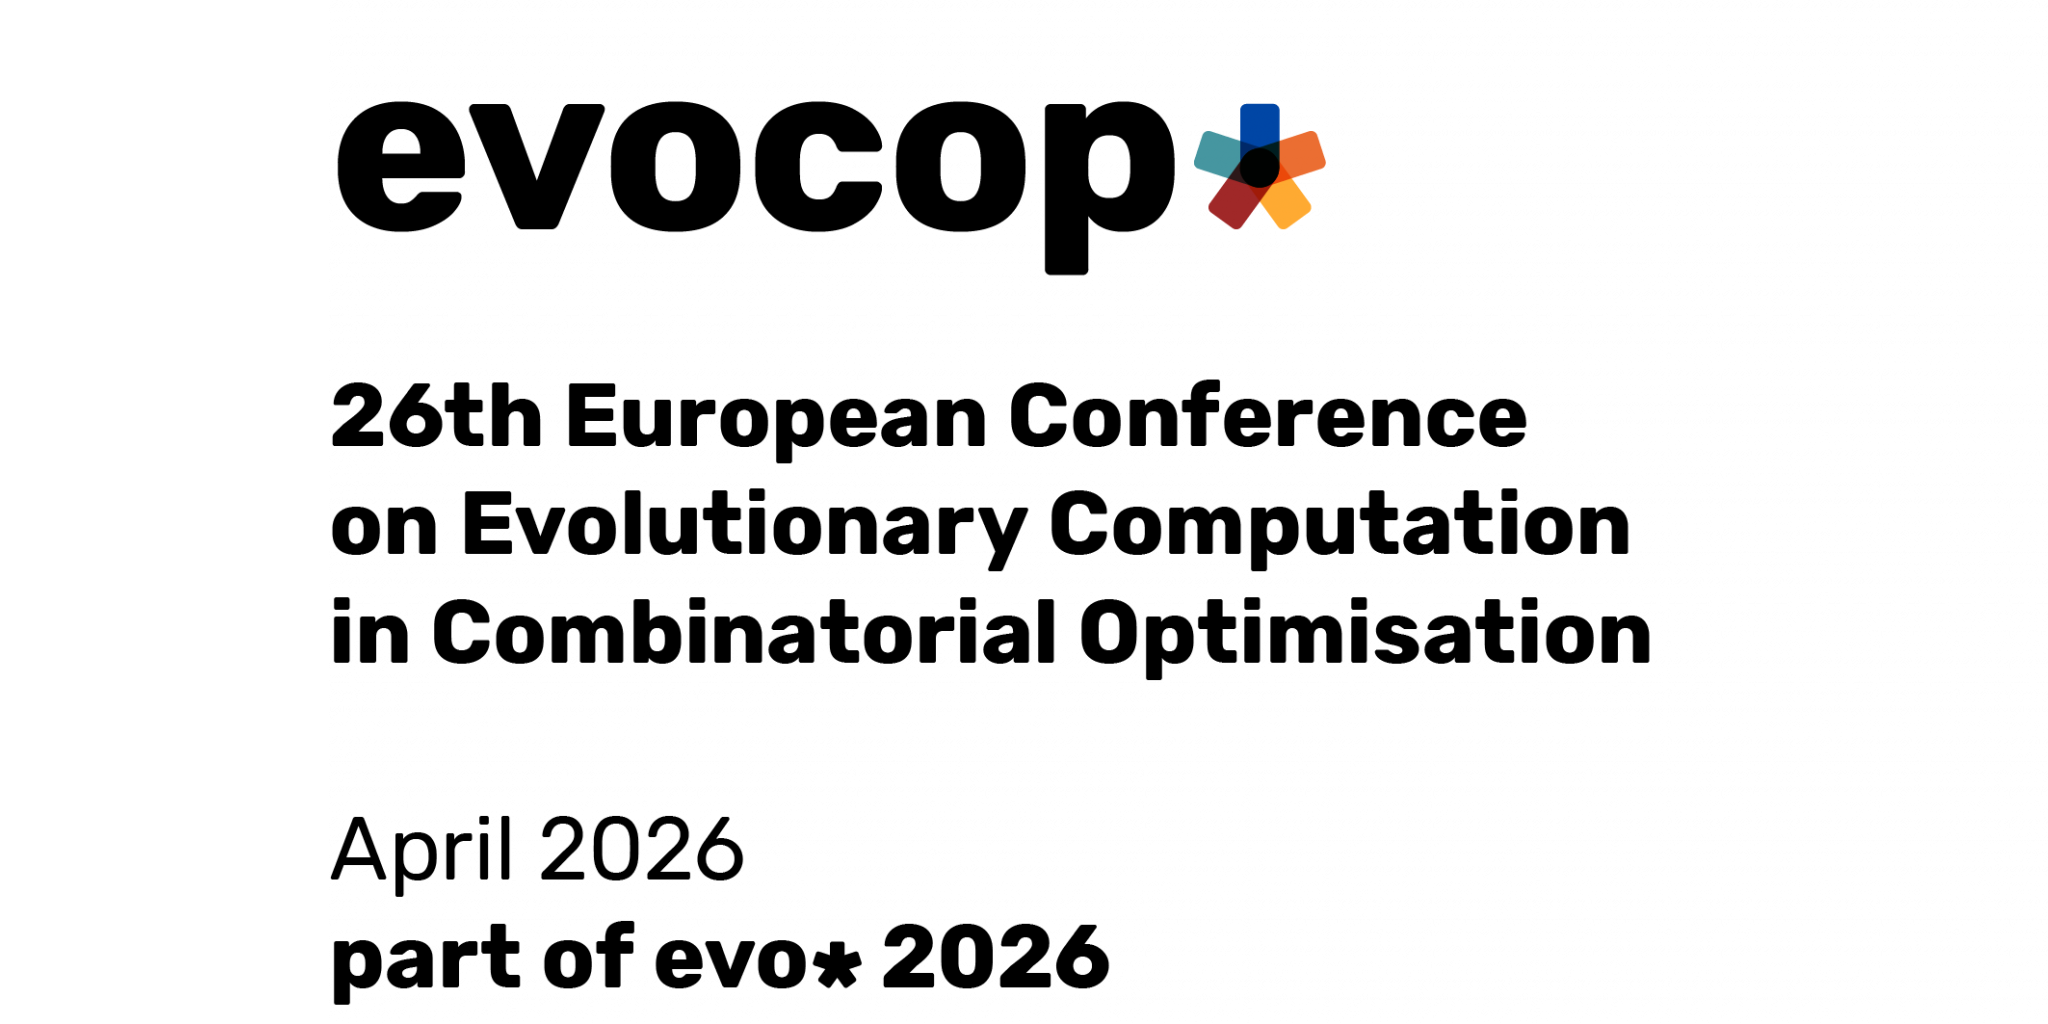
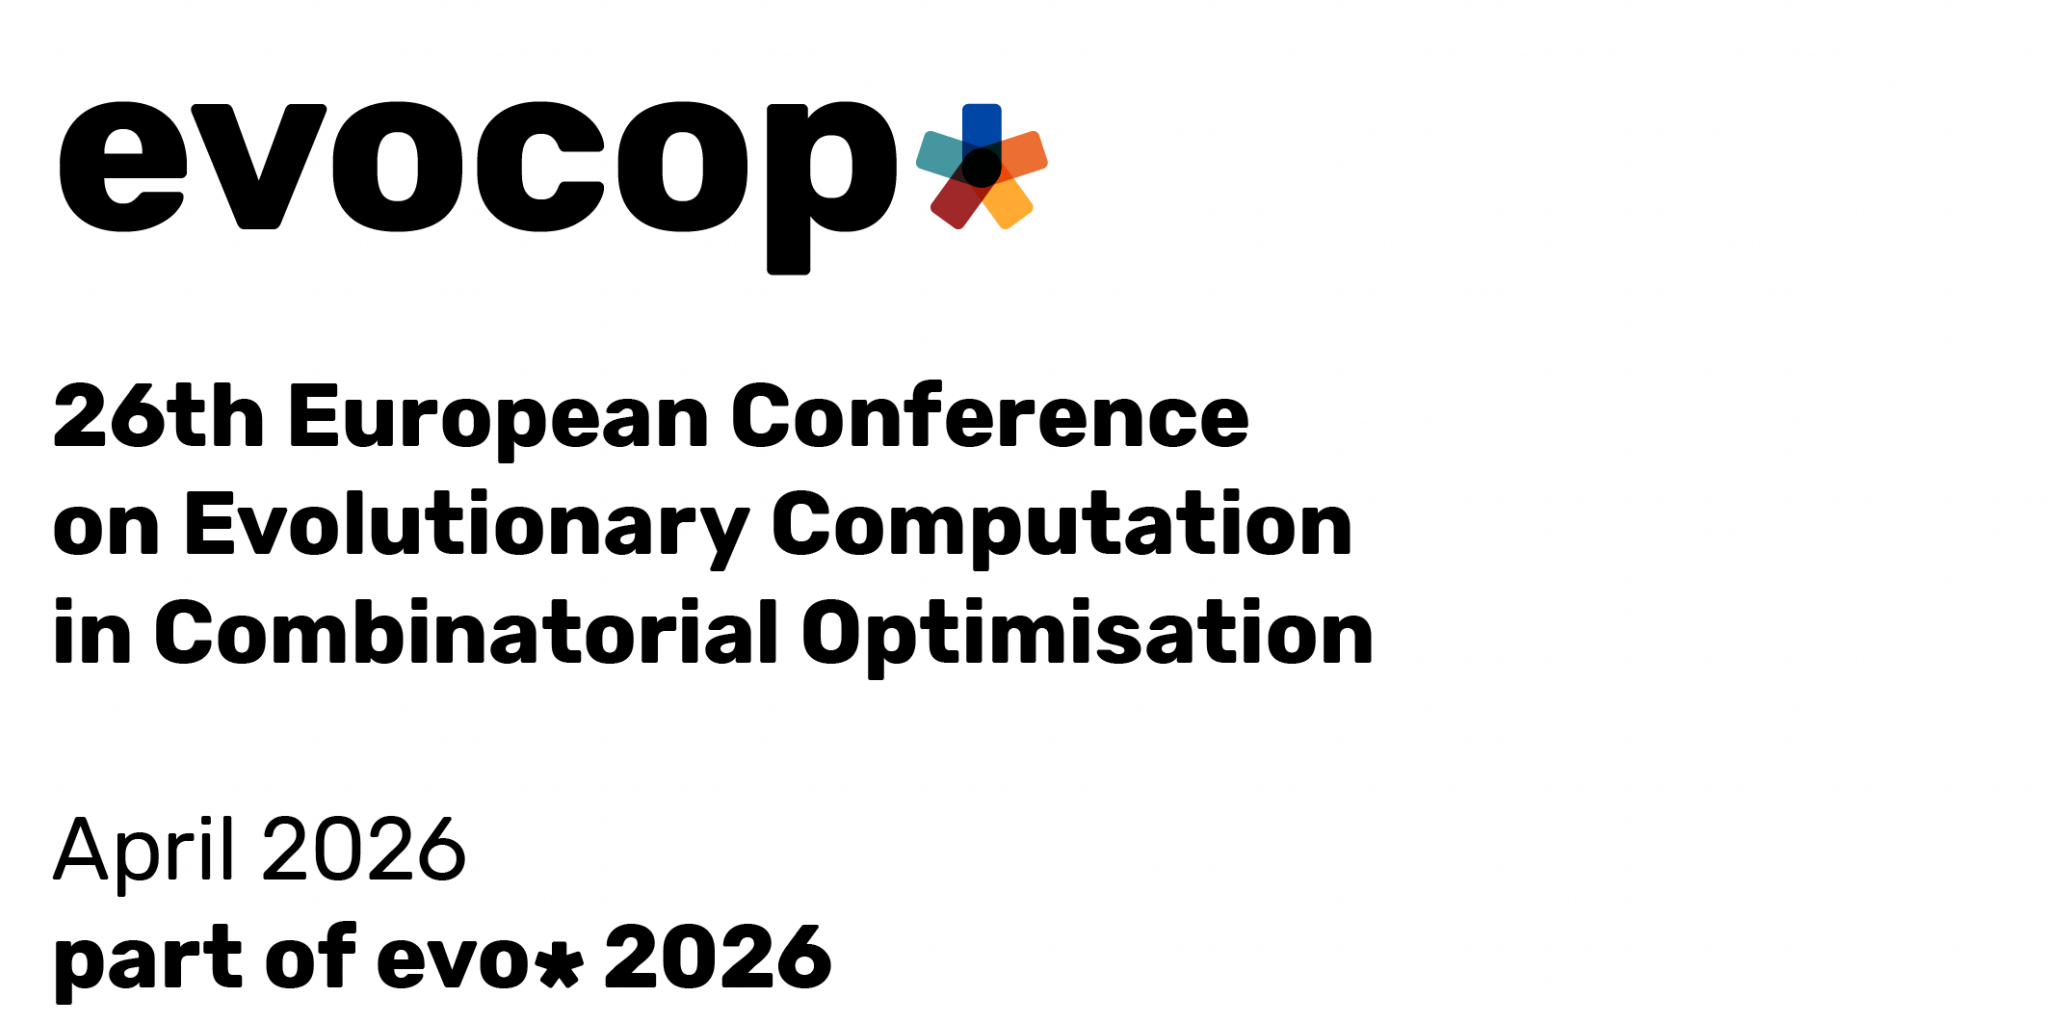
Added image position

diff --git a/assets/css/custom.css b/assets/css/custom.css
@@ -1,4 +1,4 @@
 .flip-project-img img {
     object-fit: cover;   /* keeps full cover */
-    object-position: center center;  /* center the image instead of cropping from left */
+    object-position: right center;  /* center the image instead of cropping from left */
 }

diff --git a/publications/_posts/2026-03-11-ddasp.md b/publications/_posts/2026-03-11-ddasp.md
@@ -9,6 +9,7 @@ excerpt_separator: <!--more-->
 sitemap: false
 hide_description: true
 hide_last_modified: true
+hide_dates: true
 ---
 
 # A Denoising Diffusion Adaptive Search for the α-Domination Problem on Social Graphs
